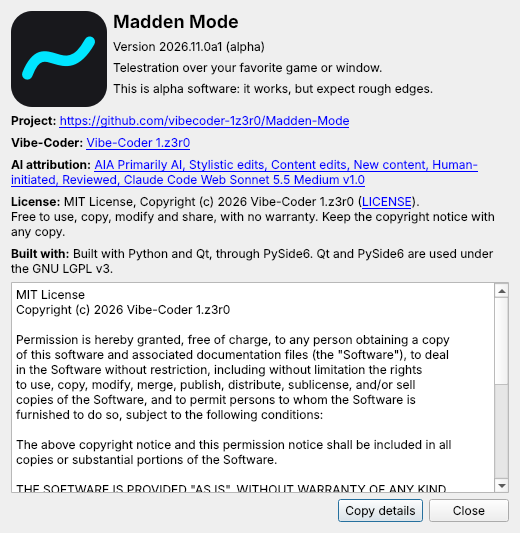
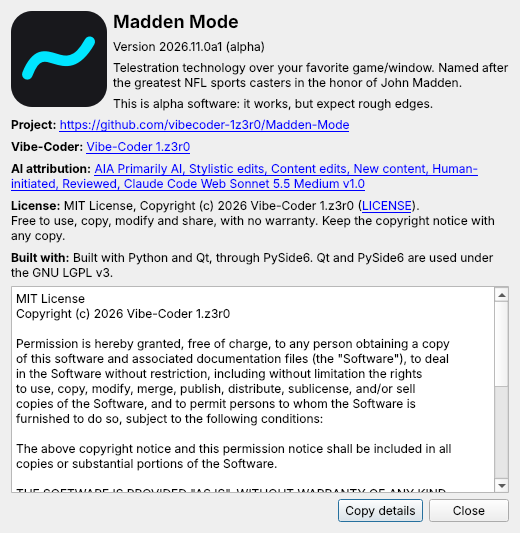
feat: use the project description as the About tagline
The About window now shows the project's description word for word:
"Telestration technology over your favorite game/window. Named after the
greatest NFL sports casters in the honor of John Madden." The package
description in pyproject.toml is its first sentence, replacing a shorter
paraphrase.

Tests keep all three in agreement: the tagline equals the README's
description line, the package description is its first sentence, and the
dialog shows the full text, wrapped. Regenerates the About screenshot and
refreshes the session log.

AIA PAI SeCeNc Hin R Claude Code Web Sonnet 5.5 Medium v1.0

Vibe-Coder: Vibe-Coder 1.z3r0 <243014891+vibecoder-1z3r0@users.noreply.github.com>

Changed region(s): [[0.0, 0.1201, 0.9846, 0.6004], [0.0308, 0.6304, 0.8615, 0.9306]]

diff --git a/tests/test_unit/test_about.py b/tests/test_unit/test_about.py
@@ -164,3 +164,17 @@ def test_the_bug_report_details() -> None:
         "Qt 6.12.0 (PySide6 6.12.0)",
         "Platform: Windows-11",
     ]
+
+
+# -- the description -------------------------------------------------------------
+
+
+def test_the_tagline_is_the_readmes_description_word_for_word() -> None:
+    lines = [line for line in read("README.md").splitlines() if line.strip()]
+    assert squash(about.TAGLINE) == squash(lines[1])  # the line under the title
+
+
+def test_the_package_description_is_its_first_sentence() -> None:
+    project = tomllib.loads(read("pyproject.toml"))["project"]
+    first_sentence = about.TAGLINE.split(". ")[0] + "."
+    assert project["description"] == first_sentence

diff --git a/tests/test_gui/test_about_dialog.py b/tests/test_gui/test_about_dialog.py
@@ -130,3 +130,10 @@ def test_close_closes_it(qapp: QApplication) -> None:
     box.button(QDialogButtonBox.StandardButton.Close).click()
     assert dialog.result() == QDialog.DialogCode.Accepted
     assert not dialog.isVisible()
+
+
+def test_it_shows_the_project_description(qapp: QApplication) -> None:
+    dialog = AboutDialog()
+    assert dialog.tagline_label.text() == about.TAGLINE
+    assert "John Madden" in dialog.tagline_label.text()
+    assert dialog.tagline_label.wordWrap()  # it is two sentences long

diff --git a/src/maddenmode/about.py b/src/maddenmode/about.py
@@ -11,7 +11,10 @@ from maddenmode import __version__
 
 APP_NAME = "Madden Mode"
 VERSION = __version__
-TAGLINE = "Telestration over your favorite game or window."
+TAGLINE = (
+    "Telestration technology over your favorite game/window. "
+    "Named after the greatest NFL sports casters in the honor of John Madden."
+)
 
 # Python writes pre-release versions as a suffix: 1a2 is alpha 2, 1b1 beta 1,
 # 1rc1 release candidate 1.

diff --git a/SESSION_LOG.md b/SESSION_LOG.md
@@ -89,17 +89,17 @@ Source: `/root/.claude/projects/-home-user/83b6fe43-fdef-5d48-9254-009a9ebfb942.
 | 83 | Why are we minting and type checking on all three platforms?  That che… | 16:52:27 | 52s | 1s | 21 | 8,513 | 8,462 | 7,232,340 |
 | 84 | Linting* | 16:53:20 | 6m 46s | 1m 11s | 42 | 13,869 | 37,945 | 14,641,058 |
 | 85 | pull and prune - PR is merged and branch is gone | 17:01:17 | 20s | 1m 5s | 12 | 2,757 | 2,609 | 4,120,908 |
-| 86 | you still have comet as cyan as default... maybe all defaults should b… | 17:02:42 | 6m 31s | — | 172 | 156,229 | 194,751 | 65,589,766 |
+| 86 | you still have comet as cyan as default... maybe all defaults should b… | 17:02:42 | 7m 5s | — | 189 | 161,340 | 205,894 | 70,903,253 |
 
 **Total turns:** 86  
-**Total agent time spent (excl. flagged):** 1h 40m  
+**Total agent time spent (excl. flagged):** 1h 41m  
 **Total human think time (excl. outliers):** 1h 49m  
 **Average human think time (excl. outliers):** 1m 21s  
 **Think-time outliers (> 15 min):** 4  
-**Total input tokens:** 2,306  
-**Total output tokens:** 1,661,346  
-**Total cache-write tokens:** 4,312,907  
-**Total cache-read tokens:** 453,896,293  
+**Total input tokens:** 2,323  
+**Total output tokens:** 1,666,457  
+**Total cache-write tokens:** 4,324,050  
+**Total cache-read tokens:** 459,209,780  
 **Cache hit ratio (cache-read ÷ all prompt-side tokens):** 99%
 
 ⏳ Turn(s) 65, 72, 73, 79 had a 'human think time' over 15 min (total 36h 42m) — likely a break, a resumed session, or time reading a long response rather than active back-and-forth. Excluded from BOTH the total and the average above (still shown per-row).
